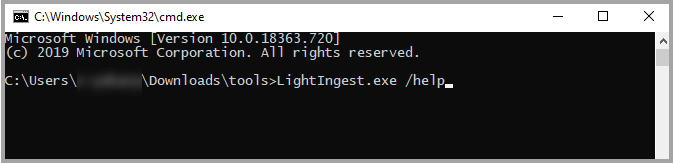
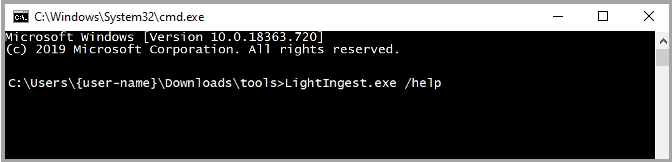
Fixes based on reviewer comments

diff --git a/data-explorer/lightingest.md b/data-explorer/lightingest.md
@@ -9,7 +9,7 @@ ms.topic: conceptual
 ms.date: 03/17/2020
 ---
 
-# LightIngest
+# Install and use LightIngest
 
 LightIngest is a command-line utility for ad-hoc data ingestion into Azure Data Explorer.
 The utility can pull source data from a local folder or from an Azure blob storage container.
@@ -29,7 +29,7 @@ The utility can pull source data from a local folder or from an Azure blob stora
 1. Navigate to the extracted *tools* directory on your computer.
 1. Delete the existing location information from the location bar.
     
-      ![Delete location information](media/lightingest/lightingest-locationbar.png)
+      ![Delete location information](media/lightingest/lightingest-location-bar.png)
 
 1. Enter `cmd` and press **Enter**.
 1. At the command prompt, enter `LightIngest.exe` followed by the relevant command-line argument.
@@ -93,6 +93,7 @@ For example, if blob names end with 'historicalvalues19840101.parquet' (the time
 
 ## Blob metadata properties
 When used with Azure blobs, `LightIngest` will use certain blob metadata properties to augment the ingestion process.
+
 |Metadata property                            | Usage                                                                           |
 |---------------------------------------------|---------------------------------------------------------------------------------|
 |`rawSizeBytes`, `kustoUncompressedSizeBytes` | If set, will be interpreted as the uncompressed data size                       |
@@ -128,11 +129,10 @@ To use the LightIngest command below:
         -cr:10.0 
         -dontWait:true
     ```
-
-     ![Injestion result](media/lightingest/lightingest-cmd-line-result.png)
-
+     
 1. In Azure Data Explorer, open query count.
-    ![Injestion result in Azure Data Explorer](media/lightingest/lightingest-showfailure-count.png)
+
+    ![Injestion result in Azure Data Explorer](media/lightingest/lightingest-show-failure-count.png)
 -->
 
 ### Ingesting blobs using a storage account key or a SAS token
